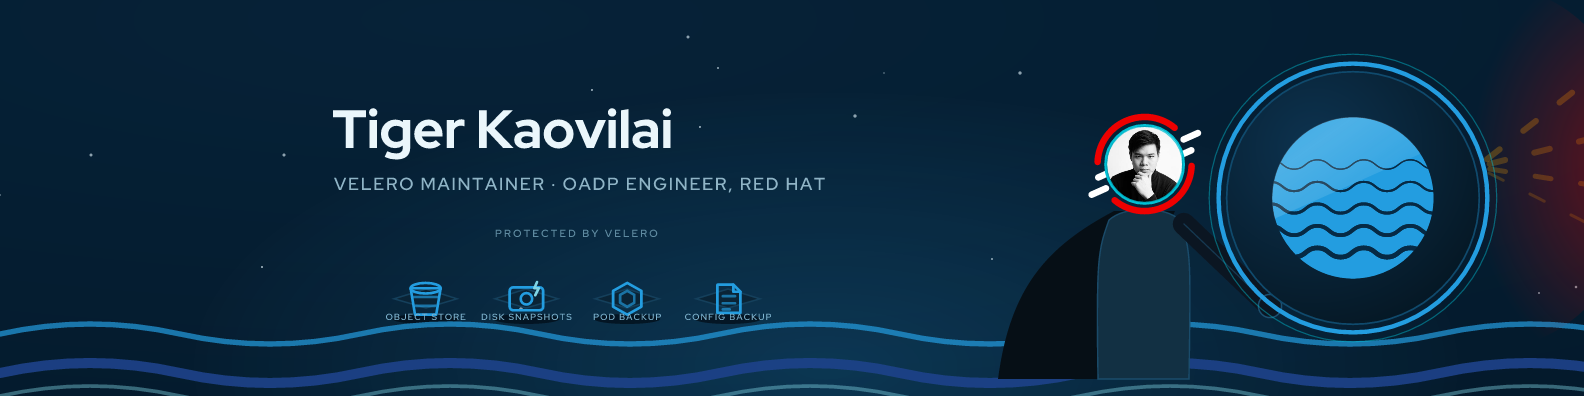
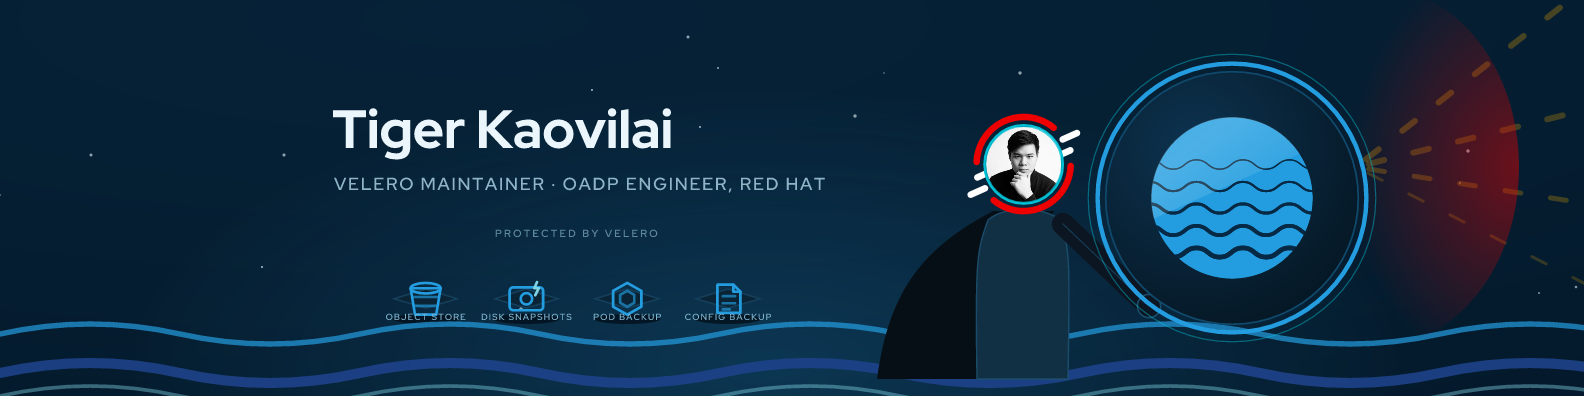
Give the LinkedIn cover more room right of the shield
The 0.24 band-height ray reserve left the shield 97px from the canvas edge
(311 in the pre-engine art), crowding it against the right corner. Raise
LinkedIn's ray_run to 0.60 so the shield sits at x~1232 (right edge 1366)
with the beams visible in the gap, matching the earlier composition.

Changed region(s): [[0.5568, 0.0606, 1.0, 0.9697], [0.959, 0.0303, 0.9899, 0.0606]]

diff --git a/tools/branding/gen_platform.py b/tools/branding/gen_platform.py
@@ -35,7 +35,7 @@ OS_GLYPH = [
 # ms = optional per-platform vertical scale for the waves (dense 4:1 covers).
 PRESETS = {
     'linkedin': dict(
-        W=1584, H=396, box=(300, 1568, 30, 366), figure=True,
+        W=1584, H=396, box=(300, 1568, 30, 366), figure=True, ray_run=.60,
         out='assets/linkedin/header-1584x396.svg',
         desc='LinkedIn cover: full bleed, profile photo overlaps bottom-left'),
     'x': dict(
